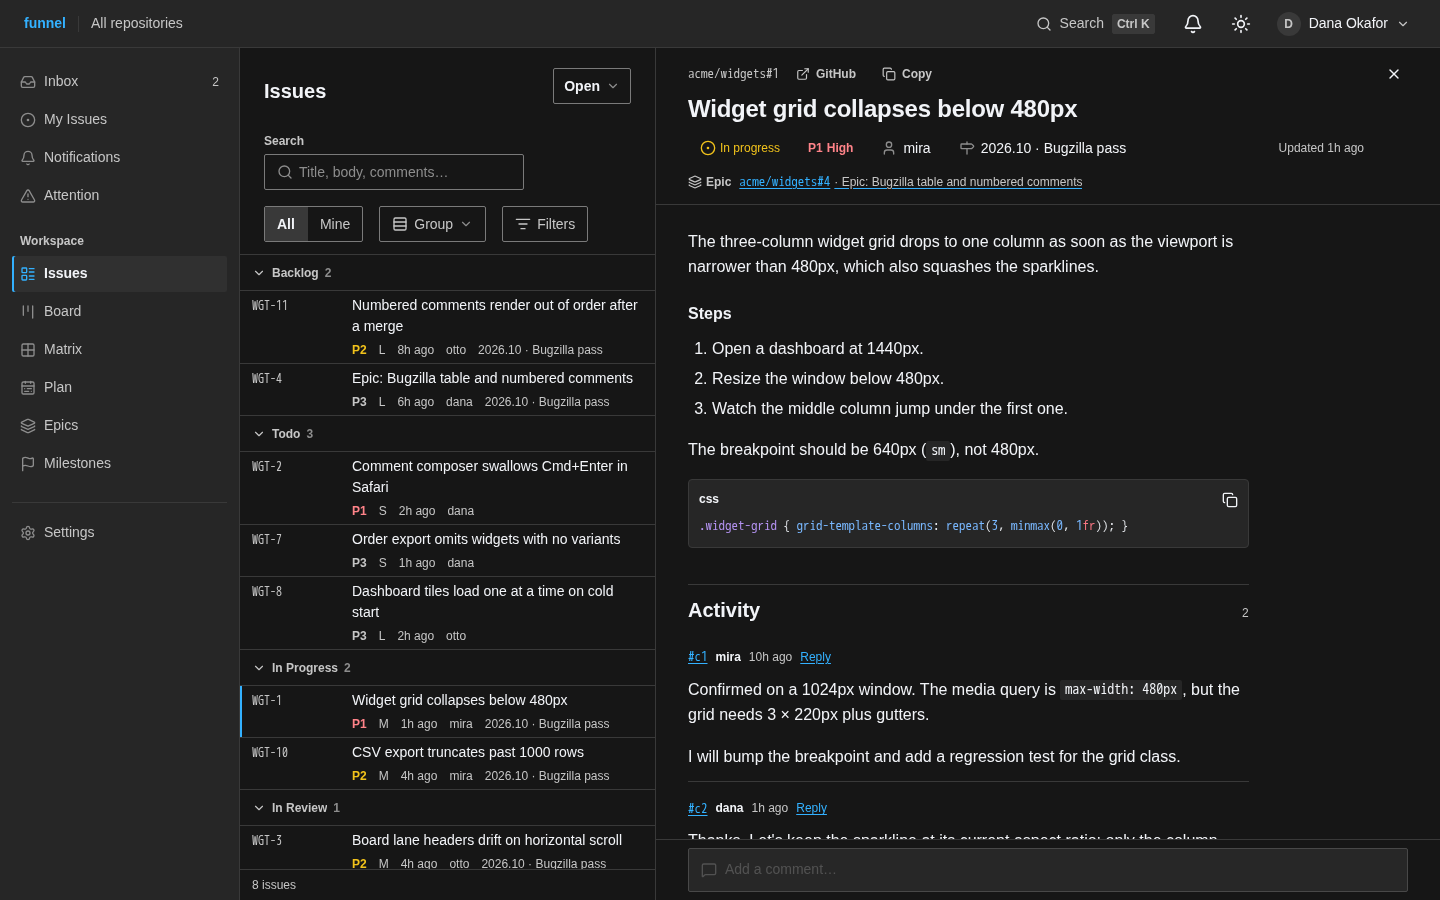
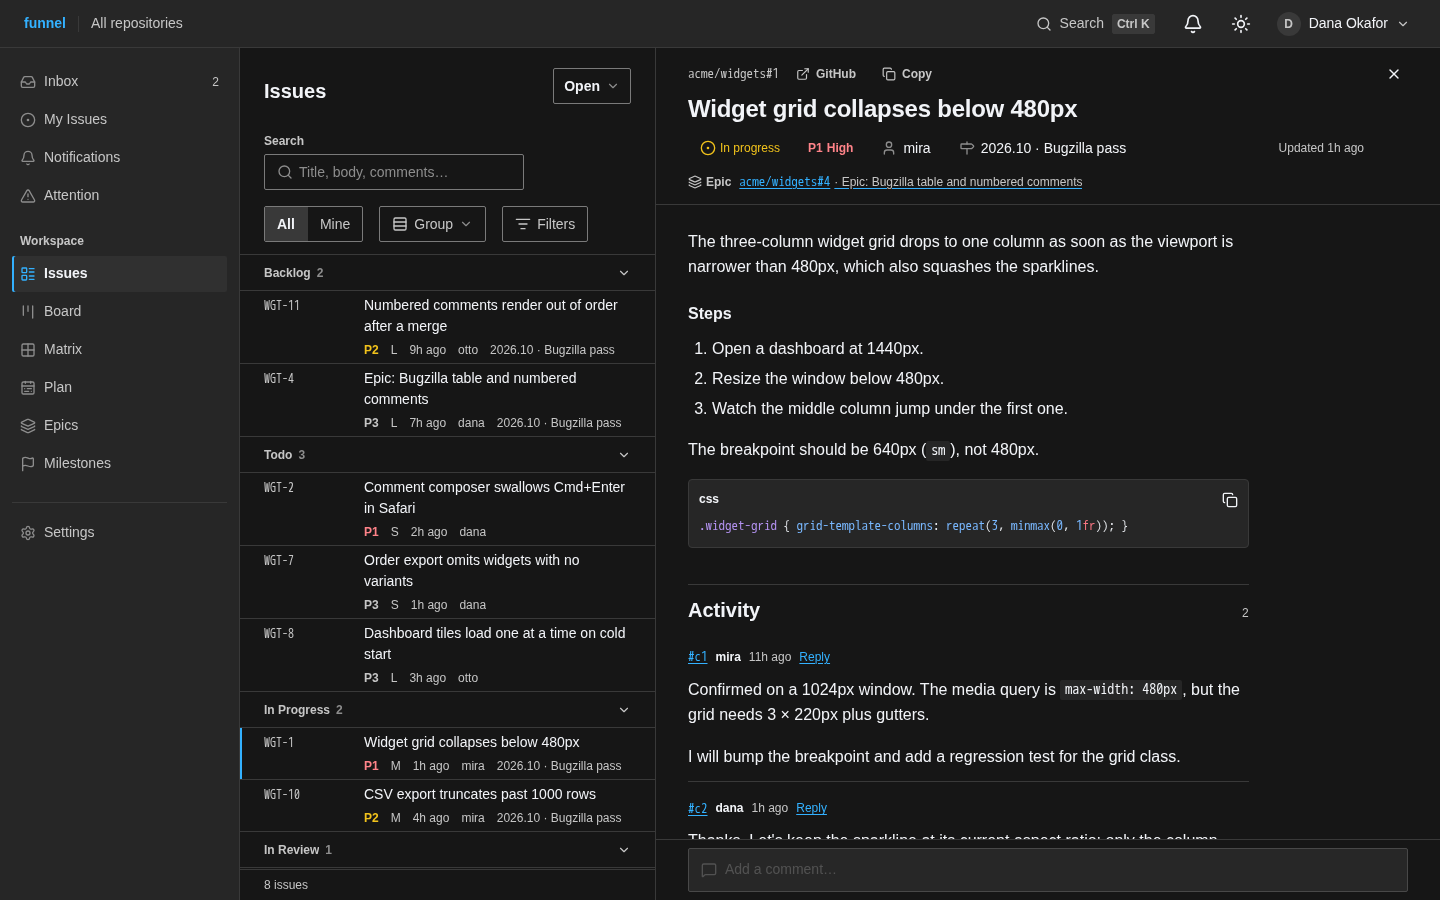
fix(design): align issue streams to the page inset

diff --git a/src/routes/(app)/inbox/+layout.svelte b/src/routes/(app)/inbox/+layout.svelte
@@ -182,7 +182,7 @@
 				<div class="min-h-[30svh] flex-1 overflow-y-auto" bind:this={scroller}>
 					{#if submissions.length > 0}
 						<section aria-labelledby="inbox-submissions-heading">
-							<div class="flex items-center justify-between gap-2 px-3 pb-1 pt-3">
+							<div class="flex items-center justify-between gap-2 px-[var(--layout-page-padding)] pb-1 pt-3">
 								<h2
 									id="inbox-submissions-heading"
 									class="text-caption font-semibold text-fg-secondary"
@@ -195,7 +195,7 @@
 							</div>
 
 							<div
-								class="flex h-(--size-row-compact) items-center gap-3 border-y border-border-subtle bg-surface-2 px-3 text-caption font-semibold text-fg"
+								class="flex h-(--size-row-compact) items-center gap-3 border-y border-border-subtle bg-surface-2 px-[var(--layout-page-padding)] text-caption font-semibold text-fg"
 								aria-hidden="true"
 							>
 								<span class="w-24 shrink-0">Source</span>
@@ -217,7 +217,7 @@
 							class="[container-type:inline-size]"
 							aria-labelledby="inbox-issues-heading"
 						>
-							<div class="flex items-center justify-between gap-2 px-3 pb-1 pt-3">
+							<div class="flex items-center justify-between gap-2 px-[var(--layout-page-padding)] pb-1 pt-3">
 								<h2
 									id="inbox-issues-heading"
 									class="text-caption font-semibold text-fg-secondary"
@@ -264,11 +264,11 @@
 					{/if}
 
 					{#if inboxFeed.loading}
-						<div class="border-t border-border-subtle px-3 py-2">
+						<div class="border-t border-border-subtle px-[var(--layout-page-padding)] py-2">
 							<InlineStatus tone="info" message="Loading more…" />
 						</div>
 					{:else if inboxFeed.error !== null}
-						<div class="border-t border-border-subtle px-3 py-2">
+						<div class="border-t border-border-subtle px-[var(--layout-page-padding)] py-2">
 							<InlineStatus tone="error" message={inboxFeed.error}>
 								{#snippet action()}
 									<Button

diff --git a/src/lib/components/issue/IssueList.svelte b/src/lib/components/issue/IssueList.svelte
@@ -173,7 +173,7 @@
 	{#if loading}
 		{@render skeleton()}
 	{:else if failed}
-		<div class="min-h-0 flex-1 px-3 py-4">
+		<div class="min-h-0 flex-1 px-[var(--layout-page-padding)] py-4">
 			<InlineStatus
 				tone="error"
 				message={feed?.error ?? 'Could not load issues.'}
@@ -213,7 +213,7 @@
 		</div>
 
 		{#if feed && feed.error !== null}
-			<div class="shrink-0 border-t border-border-subtle px-3 py-2">
+			<div class="shrink-0 border-t border-border-subtle px-[var(--layout-page-padding)] py-2">
 				<InlineStatus tone="error" message={feed.error} action={retryMore} />
 			</div>
 		{:else if feed && feed.loading}
@@ -225,7 +225,7 @@
 
 	{#if !loading && !failed}
 		<footer
-			class="flex shrink-0 flex-wrap items-center gap-x-2 gap-y-1 border-t border-border-subtle px-3 py-1.5 text-caption text-fg-secondary"
+			class="flex shrink-0 flex-wrap items-center gap-x-2 gap-y-1 border-t border-border-subtle px-[var(--layout-page-padding)] py-1.5 text-caption text-fg-secondary"
 		>
 			<span class="tabular-nums">{count.toLocaleString()} {count === 1 ? 'issue' : 'issues'}</span>
 			{#if feed && shown < count}
@@ -247,7 +247,7 @@
 		min-height: var(--size-row-comfortable);
 		column-gap: var(--space-3);
 		row-gap: var(--space-1);
-		padding: var(--space-1) var(--space-3);
+		padding: var(--space-1) var(--layout-page-padding);
 		border-bottom: 1px solid var(--color-border-subtle);
 	}
 

diff --git a/src/lib/components/issue/IssueGroupHeader.svelte b/src/lib/components/issue/IssueGroupHeader.svelte
@@ -15,16 +15,16 @@
 
 <button
 	type="button"
-	class="issue-group-header flex h-(--size-row-compact) w-full items-center gap-1.5 border-b border-border-subtle bg-canvas px-3 text-left text-caption font-semibold text-fg-secondary"
+	class="issue-group-header flex h-(--size-row-compact) w-full items-center gap-1.5 border-b border-border-subtle bg-canvas px-[var(--layout-page-padding)] text-left text-caption font-semibold text-fg-secondary"
 	aria-expanded={!collapsed}
 	onclick={ontoggle}
 >
-	<ChevronRightIcon
-		class={cn('size-3.5 shrink-0 transition-transform', !collapsed && 'rotate-90')}
-		aria-hidden="true"
-	/>
 	<span class="truncate">{label}</span>
 	<span class="tabular-nums text-fg-muted">{count}</span>
+	<ChevronRightIcon
+		class={cn('ms-auto size-3.5 shrink-0 transition-transform', !collapsed && 'rotate-90')}
+		aria-hidden="true"
+	/>
 </button>
 
 <style>

diff --git a/src/lib/components/inbox/SubmissionRow.svelte b/src/lib/components/inbox/SubmissionRow.svelte
@@ -27,7 +27,7 @@
 
 <div
 	class={cn(
-		'group/row flex min-h-(--size-row-compact) cursor-pointer select-none items-center gap-3 border-b border-border-subtle px-3 text-body last:border-b-0',
+		'group/row flex min-h-(--size-row-compact) cursor-pointer select-none items-center gap-3 border-b border-border-subtle px-[var(--layout-page-padding)] text-body last:border-b-0',
 		'hover:bg-surface-2 focus-visible:outline-2 focus-visible:outline-offset-[-2px] focus-visible:outline-ring',
 		selected && 'is-selected-row'
 	)}

diff --git a/src/lib/components/issue/IssueRow.svelte b/src/lib/components/issue/IssueRow.svelte
@@ -198,7 +198,7 @@
 		min-height: var(--size-row-comfortable);
 		column-gap: var(--space-3);
 		row-gap: var(--space-1);
-		padding: var(--space-1) var(--space-3);
+		padding: var(--space-1) var(--layout-page-padding);
 	}
 
 	.issue-row > .issue-ref {

diff --git a/docs/DESIGN.md b/docs/DESIGN.md
@@ -98,6 +98,10 @@ controls and 2.75rem rows. Below 768px, controls and rows are at least 2.75rem.
 - The issue stream is a two-line list: fixed reference slot, title, then one
   metadata line (status, priority, size, updated, assignee, milestone/labels).
   It has no column header and no zebra fill; 1px `border-subtle` separators.
+- List chrome shares the page's horizontal inset: the page header, toolbar,
+  group labels, references, empty/error states, and footer all start on
+  `--layout-page-padding`. The reference and title are internal columns of the
+  row, not a second page inset.
 - Comparison tables keep a 2.25rem header on `surface-2`, 0.875/600, with
   zebra rows and a 1px rule below the header only.
 - Selected rows use the 2px primary leading bar and keep 400 weight.

diff --git a/docs/plans/2026-11-02-t128n-polish.md b/docs/plans/2026-11-02-t128n-polish.md
@@ -255,3 +255,9 @@ worktree; the implementation followed the repo design docs plus the current
   full-width title band. “Personal” aligns with the h1.
 - Appearance theme options use 8px spacing while staying grouped by spacing
   alone.
+
+- The Issues and Inbox streams now use `--layout-page-padding` for group
+  headers, rows, loading/error strips, and footers, so the page title, search,
+  filters, group labels, references, and footer share one left edge at every
+  breakpoint. Group disclosure moved to the trailing edge so the label itself
+  sits on that edge.
